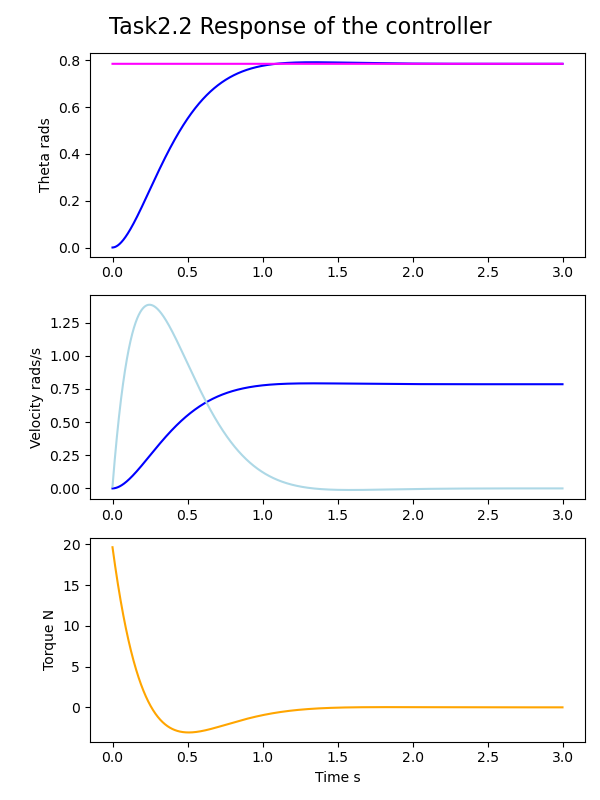
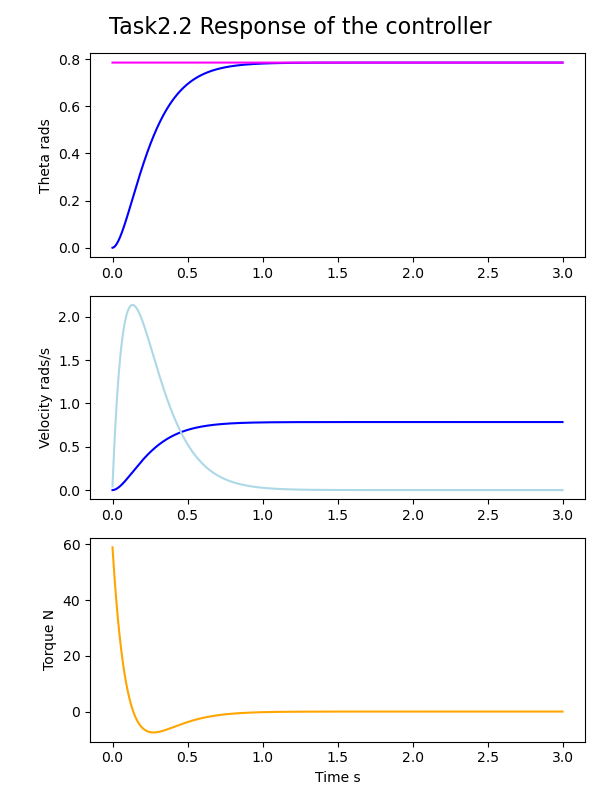
task3

diff --git a/core/Pybullet_Simulation.py b/core/Pybullet_Simulation.py
@@ -111,6 +111,7 @@ class Simulation(Simulation_base):
 
         for jointName in moveableJoints:
             RotMat = self.getJointRotationalMatrix(jointName, theta=self.jointTargetPos[jointName])
+
             Trans = self.frameTranslationFromParent[jointName]
 
             TransMat = np.array([[RotMat[0,0],RotMat[0,1],RotMat[0,2],Trans[0]],
@@ -262,7 +263,6 @@ class Simulation(Simulation_base):
             angles = list(self.convertAngle(np.array(angularTraj[n-1])+dq))
             angularTraj.append(angles)
             EFstate = TargetStates[n]
-
             for j in range(0, len(joints)): self.jointTargetPos[joints[j]] = angles[j]
 
             if np.linalg.norm((targetState - EFstate)) < threshold:
@@ -293,8 +293,8 @@ class Simulation(Simulation_base):
                 self.jointPositionOld[joints[j]] = angles[n][j]
 
             if task == "task_31":
-                self.jointTargetPos["LARM_JOINT5"] = -( self.getJointPos("CHEST_JOINT0") + self.getJointPos("LARM_JOINT0") )
-                self.jointTargetPos["RARM_JOINT5"] = -( self.getJointPos("CHEST_JOINT0") + self.getJointPos("RARM_JOINT0") )
+                self.jointTargetPos["LARM_JOINT5"] = -( self.getJointPos("CHEST_JOINT0") + self.getJointPos("LARM_JOINT0"))
+                self.jointTargetPos["RARM_JOINT5"] = -( self.getJointPos("CHEST_JOINT0") + self.getJointPos("RARM_JOINT0"))
             elif task == "task_32":
                 self.jointTargetPos["LARM_JOINT5"] = -(self.getJointPos("LARM_JOINT0")) + np.pi
                 self.jointTargetPos["RARM_JOINT5"] = -(self.getJointPos("RARM_JOINT0")) + np.pi
@@ -343,7 +343,7 @@ class Simulation(Simulation_base):
             u(t) - the manipulation signal
         """
         # COMPLETE: Add your code here
-        u = kp*(x_ref - x_real) + kd*(dx_ref-dx_real) + ki*integral
+        u = kp*(x_ref - x_real) + kd*(dx_real - dx_ref) + ki*integral
         return u
 
     # Task 2.2 Joint Manipulation
@@ -407,13 +407,7 @@ class Simulation(Simulation_base):
         #TODO add your code here
         # Iterate through joints and use states from IK solver as reference states in PD controller.
         # Perform iterations to track reference states using PD controller until reaching
-        # max iterations or position threshold.
-
-        # Hint: here you can add extra steps if you want to allow your PD
-        # controller to converge to the final target position after performing
-        # all IK iterations (optional).
-
-        # return pltTime, pltDistance
+        # max iterations or position threshold.elf.jointTargetPos["CHEST_JOINT0"] = 
 
         pltTime = list()
         pltDistance = list()
@@ -465,8 +459,7 @@ class Simulation(Simulation_base):
 
             ### Implement your code from here ... ###
             # TODO: obtain torque from PD controller
-            torque = 0
-            torque = self.calculateTorque(self.jointTargetPos[joint], self.getJointPos(joint), 0,  (self.getJointPos(joint) - self.jointPositionOld[joint])/self.dt, 0, kp, ki, kd)
+            torque = self.calculateTorque(self.jointTargetPos[joint], self.getJointPos(joint), 0, (self.jointTargetPos[joint] - self.jointPositionOld[joint])/self.dt, 0, kp, ki, kd)
             ### ... to here ###
 
             self.p.setJointMotorControl2(
@@ -512,10 +505,8 @@ class Simulation(Simulation_base):
         dist = 0
 
         for n in range(0,nTimes+1):
-            EFStates.append([poly(dist)[0], poly(dist)[1]])
+            EFStates.append([poly(dist)[0], poly(dist)[1], poly(dist)[2]])
             dist += step
-
-            print(EFStates[n])
 
         return np.array(EFStates)
 
@@ -524,13 +515,43 @@ class Simulation(Simulation_base):
             threshold=1e-1, maxIter=300, verbose=False):
         """A template function for you, you are free to use anything else"""
         # TODO: Append your code here
-
-        pass
+        endEffector = "LARM_JOINT5"
+        targetstates = self.cubic_interpolation([np.array([0.37, 0.23, 0.871]),
+                                            np.array([0.37, 0.23, 1.05]),
+                                            np.array([0.37, -0.06, 1.05]),
+                                            np.array([0.21, -0.06, 1.05]),
+                                            np.array([0.21, -0.06, 0.94]),
+                                            np.array([0.58, -0.06, 0.94])],3000)
+    
+        for t in targetstates:
+            self.move_without_PD( endEffector, targetPosition=t, speed=0.01, orientation=np.array([1, 0, 0]), threshold=1e-3, maxIter=2, debug=False, verbose=False, task = "")
+            print(self.getJointPosition(endEffector))
+            print()
+            print(self.getJointOrientation(endEffector))
+            
+        time.sleep(10)
 
     # Task 3.2 Grasping & Docking
     def clamp(self, leftTargetAngle, rightTargetAngle, angularSpeed=0.005, threshold=1e-1, maxIter=300, verbose=False):
         """A template function for you, you are free to use anything else"""
-        # TODO: Append your code here
-        pass
+        # TODO: Append your code here0
+
+        targetstatesL = self.cubic_interpolation(np.array([[0.37,0.23,0.871],
+                                                      [0.37,0.1,1.05],
+                                                      [0.37,0.1,1.05],
+                                                      [0.43,0.275,1.05],
+                                                      [0.35,0.38,1]]),1000)
+
+        targetstatesR = self.cubic_interpolation(np.array([[0.37,-0.23,0.871],
+                                                      [0.40,0.1,1.05],
+                                                      [0.43,0.075,1.05],
+                                                      [0.35,0.18,1.05] ]),1000)
+        for s in range(0, len(targetstatesL)):
+            tpL = np.array([targetstatesL[s][0],targetstatesL[s][1],targetstatesL[s][2]])
+            tpR = np.array([targetstatesR[s][0],targetstatesR[s][1],targetstatesR[s][2]])
+            taro = np.array([1,0,0])
+
+            self.move_without_PD("LARM_JOINT5", targetPosition=tpL, speed=0.01, orientation=taro, threshold=1e-2, maxIter=2, debug=False, verbose=False, task='task_32')
+            self.move_without_PD("RARM_JOINT5", targetPosition=tpR, speed=0.01, orientation=taro, threshold=1e-2, maxIter=2, debug=False, verbose=False, task='task_32')
 
  ### END

diff --git a/task1/task1.py b/task1/task1.py
@@ -66,28 +66,26 @@ def task32_pre():
                                                       [0.35,0.18,1,0,0,1]]),1000)
     for s in range(0, len(targetstatesL)):
         tpL = np.array([targetstatesL[s][0],targetstatesL[s][1],targetstatesL[s][2]])
-        taroL = np.array([targetstatesL[s][3],targetstatesL[s][4],targetstatesL[s][5]])
         tpR = np.array([targetstatesR[s][0],targetstatesR[s][1],targetstatesR[s][2]])
-        taroR = np.array([targetstatesR[s][3],targetstatesR[s][4],targetstatesR[s][5]])
+        taro = np.array([0,0,1])
 
-        sim.move_with_PD("LARM_JOINT5", targetPosition=tpL, speed=0.01, orientation=taroL, threshold=1e-2, maxIter=2, debug=False, verbose=False, task='task_32')
-        sim.move_with_PD("RARM_JOINT5", targetPosition=tpR, speed=0.01, orientation=taroR, threshold=1e-2, maxIter=2, debug=False, verbose=False, task='task_32')
+        sim.move_without_PD("LARM_JOINT5", targetPosition=tpL, speed=0.01, orientation=taro, threshold=1e-2, maxIter=2, debug=False, verbose=False, task='task_32')
+        sim.move_without_PD("RARM_JOINT5", targetPosition=tpR, speed=0.01, orientation=taro, threshold=1e-2, maxIter=2, debug=False, verbose=False, task='task_32')
 
 
 def task31_pre():
-    targetstatesL = sim.cubic_interpolation(np.array([[0.37,0.23,0.871,0,0,1],
-                                                      [0.17,0.23,0.871,0,0,1],
-                                                      [0.17,0,0.871,0,0,1],
-                                                      [0.5,0,0.871,0,0,1]]),1000)
+    targetstates = sim.cubic_interpolation([np.array([0.37, 0.23, 0.871]),
+                                            np.array([0.37, 0.23, 1.05]),
 
-    for s in targetstatesL:
+                                            np.array([0.37, -0.05, 1.05]),
+                                            np.array([0.37, -0.05, 0.98]),
+                                            np.array([0.30, -0.05, 0.98]),
+                                            np.array([0.6,  -0.05, 0.98])],1000)
+
+    for s in targetstates:
         tp = np.array([s[0],s[1],s[2]])
-        taro = np.array([s[3],s[4],s[5]])
-        sim.move_with_PD("LARM_JOINT5", targetPosition=tp, speed=0.01, orientation=taro, threshold=1e-2, maxIter=2, debug=False, verbose=False,task = "task_31")
-
-
-
-
+        taro = np.array([0,0,1])
+        sim.move_without_PD("LARM_JOINT5", targetPosition=tp, speed=0.01, orientation=taro, threshold=1e-3, maxIter=2, debug=False, verbose=False,task = "task_31")
 
 ref = [0, 0, 1]
 sim = Simulation(pybulletConfigs, robotConfigs, refVect=ref)
@@ -95,9 +93,8 @@ sim = Simulation(pybulletConfigs, robotConfigs, refVect=ref)
 endEffector = "LARM_JOINT5"
   # x,y,z coordinates in world frame
 # Example code. Feel free to modify
-#task32_pre()
-pltTime, pltEFPosition = sim.move_without_PD(endEffector, targetPosition = np.array([0.37, 0.23, 1.06]), speed=0.01, orientation=np.array([0,0,1]), threshold=1e-2, maxIter=100, debug=False, verbose=False)
-
+task31_pre()
+pltTime, pltEFPosition = sim.move_without_PD(endEffector, targetPosition = np.array([0.6, 0, 1.06]), speed=0.01, orientation=np.array([0,1,0]), threshold=1e-2, maxIter=100, debug=False, verbose=False,task = "task_31")
 # Now plot some graphs
 task1_figure_name = "task1_kinematics.png"
 task1_savefig = True

diff --git a/task2/task2.py b/task2/task2.py
@@ -56,55 +56,56 @@ task2_savefig = True
 ### to here
 
 endEffector = "LARM_JOINT5"
-targetPosition = np.array([0.37, 0.23, 1.06385])
+targetPosition = np.array([0.6, 0.3, 1.06])
 
-pltTime, pltEFPosition = sim.move_with_PD(endEffector, targetPosition, speed=0.01, orientation=[0,1,0], threshold=1e-3, maxIter=1000, debug=False, verbose=False)
-
+#pltTime, pltEFPosition = sim.move_with_PD(endEffector, targetPosition, speed=0.01, orientation=np.array([0,1,0]), threshold=1e-3, maxIter=100, debug=False, verbose=False, task="task_31")
+#print(sim.getJointPosition(endEffector))
+#print()
+#print(sim.getJointOrientation(endEffector))
 task2_figure_name = "TASK2_KINEMATICS.png"
 
 # ...
-fig = plt.figure(figsize=(6, 4))
+#fig = plt.figure(figsize=(6, 4))
 
-plt.plot(pltTime, pltEFPosition, color='blue')
-plt.xlabel("Time s")
-plt.ylabel("Distance to target position")
-
-plt.suptitle("task2 IK with PD", size=16)
-plt.tight_layout()
-plt.subplots_adjust(left=0.15)
-
-#if task2_savefig:
-#    fig.savefig(task2_figure_name)
-plt.show()
-
-
-#pltTime, pltTarget, pltTorque, pltTorqueTime, pltPosition, pltVelocity = \
-#    sim.moveJoint(
-#        task2_jointName, task2_targetPosition, task2_targetVelocity, verbose)
-
-
-#modify the code in below if needed
-#fig = plt.figure(figsize=(6, 8))
-
-#plt.subplot(311)
-#plt.plot(pltTime, pltPosition, color='blue')
-#plt.plot(pltTime, pltTarget, color='magenta')
-#plt.ylabel("Theta rads")
-
-#plt.subplot(312)
-#plt.plot(pltTime, pltPosition, color='blue')
-#plt.plot(pltTime, pltVelocity, color='lightblue')
-#plt.ylabel("Velocity rads/s")
-
-#plt.subplot(313)
-#plt.plot(pltTorqueTime, pltTorque, color='orange')
+#plt.plot(pltTime, pltEFPosition, color='blue')
 #plt.xlabel("Time s")
-#plt.ylabel("Torque N")
+#plt.ylabel("Distance to target position")
 
-#plt.suptitle("Task2.2 Response of the controller", size=16)
+#plt.suptitle("task2 IK with PD", size=16)
 #plt.tight_layout()
 #plt.subplots_adjust(left=0.15)
 
 #if task2_savefig:
-#   fig.savefig(task2_figure_name)
+#    fig.savefig(task2_figure_name)
 #plt.show()
+
+
+pltTime, pltTarget, pltTorque, pltTorqueTime, pltPosition, pltVelocity = \
+    sim.moveJoint(
+        task2_jointName, task2_targetPosition, task2_targetVelocity, verbose)
+
+
+#modify the code in below if needed
+fig = plt.figure(figsize=(6, 8))
+plt.subplot(311)
+plt.plot(pltTime, pltPosition, color='blue')
+plt.plot(pltTime, pltTarget, color='magenta')
+plt.ylabel("Theta rads")
+
+plt.subplot(312)
+plt.plot(pltTime, pltPosition, color='blue')#
+plt.plot(pltTime, pltVelocity, color='lightblue')
+plt.ylabel("Velocity rads/s")
+
+plt.subplot(313)
+plt.plot(pltTorqueTime, pltTorque, color='orange')
+plt.xlabel("Time s")
+plt.ylabel("Torque N")
+plt.suptitle("Task2.2 Response of the controller", size=16)
+plt.tight_layout()
+plt.subplots_adjust(left=0.15)
+
+
+if task2_savefig:
+   fig.savefig(task2_figure_name)
+plt.show()

diff --git a/task3_1/task3_1_pushing.py b/task3_1/task3_1_pushing.py
@@ -91,15 +91,8 @@ def getReadyForTask():
 
 def solution():
     # TODO: Add your code here
-    targetstatesL = sim.cubic_interpolation([np.array([0.37,0.23]),
-                                            np.array([0.21,0.23]),
-                                            np.array([0.22,0.1]),
-                                            np.array([0.5,0.1])])
+    sim.dockingToPosition(0, 0, angularSpeed=0.005, threshold=1e-1, maxIter=300, verbose=False)
 
-    for s in targetstatesL:
-        tp = np.array([s[0],s[1],1.0])
-        taro = np.array([0,1,0])
-        sim.move_with_PD("LARM_JOINT5", targetPosition=tp, speed=0.01, orientation=taro, threshold=1e-2, maxIter=10, debug=False, verbose=False,task = "default")
 
 tableId, cubeId, targetId = getReadyForTask()
 solution()

diff --git a/task3_2/task3_2_docking_template.py b/task3_2/task3_2_docking_template.py
@@ -40,8 +40,8 @@ robotConfigs = {
     "robotPIDConfigs": core_path + "/PD_gains.yaml",
     "robotStartPos": [0, 0, 0.85],
     "robotStartOrientation": [0, 0, 0, 1],
-    "fixedBase": False,
-    "colored": False
+    "fixedBase": True,
+    "colored": True
 }
 
 sim = Simulation(pybulletConfigs, robotConfigs)
@@ -101,6 +101,7 @@ def getReadyForTask():
 
 def solution():
     # TODO: Add your code here
+    sim.clamp(0, 0, angularSpeed=0.005, threshold=1e-1, maxIter=300, verbose=False)
     pass
 
 tableId, cubeId, targetId = getReadyForTask()
